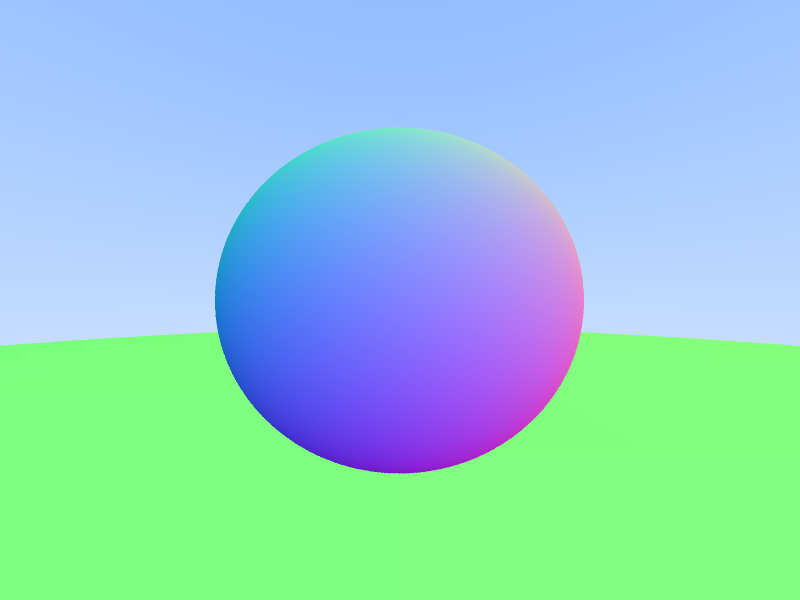
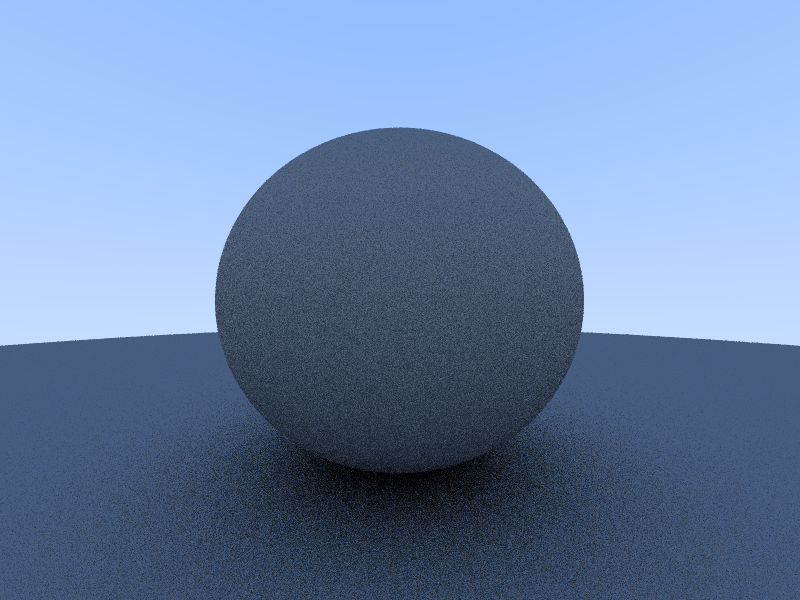
Diffuse reflections.

diff --git a/raytracer/src/main.rs b/raytracer/src/main.rs
@@ -36,15 +36,29 @@ fn hit_world(world: &Vec<Sphere>, r: &Ray, t_min: f64, t_max: f64) -> Option<Hit
     hit_record
 }
 
-fn ray_color(ray: &Ray, world: &Vec<Sphere>) -> Srgb {
+fn ray_color(ray: &Ray, world: &Vec<Sphere>, depth: i32) -> Srgb {
+    if depth <= 0 {
+        return Srgb::new(0.0, 0.0, 0.0);
+    }
     let hit = hit_world(world, ray, 0.001, std::f64::MAX);
     match hit {
         Some(hit_record) => {
-            let n = hit_record.normal;
+            // let n = hit_record.normal;
+            // return Srgb::new(
+            //     0.5 * n.x() as f32 + 0.5,
+            //     0.5 * n.y() as f32 + 0.5,
+            //     0.5 * n.z() as f32 + 0.5,
+            // );
+            let target = hit_record.point + hit_record.normal + Point3D::random_in_unit_sphere();
+            let target_color = ray_color(
+                &Ray::new(hit_record.point, target - hit_record.point),
+                world,
+                depth - 1,
+            );
             return Srgb::new(
-                0.5 * n.x() as f32 + 0.5,
-                0.5 * n.y() as f32 + 0.5,
-                0.5 * n.z() as f32 + 0.5,
+                0.5 * target_color.red,
+                0.5 * target_color.green,
+                0.5 * target_color.blue,
             );
         }
         None => {
@@ -64,7 +78,7 @@ fn test_ray_color() {
     let q = Point3D::new(1.0, 0.0, 0.0);
     let r = Ray::new(p, q);
     let w = Vec::new();
-    assert_eq!(ray_color(&r, &w), Srgb::new(0.75, 0.85, 1.0));
+    assert_eq!(ray_color(&r, &w, 2), Srgb::new(0.75, 0.85, 1.0));
 }
 
 fn render(pixels: &mut [u8], bounds: (usize, usize)) {
@@ -93,7 +107,7 @@ fn render(pixels: &mut [u8], bounds: (usize, usize)) {
                 let u = (x as f64 + rng.gen::<f64>()) / (bounds.0 as f64 - 1.0);
                 let v = (bounds.1 as f64 - (y as f64 + rng.gen::<f64>())) / (bounds.1 as f64 - 1.0);
                 let r = camera.get_ray(u, v);
-                let c = ray_color(&r, &world);
+                let c = ray_color(&r, &world, 50);
                 pixel_colors[0] += c.red;
                 pixel_colors[1] += c.green;
                 pixel_colors[2] += c.blue;

diff --git a/raytracer/src/lib.rs b/raytracer/src/lib.rs
@@ -1,3 +1,4 @@
+use rand::Rng;
 use std::cmp::PartialEq;
 use std::f64;
 use std::ops::{Add, Div, Mul, Neg, Sub};
@@ -15,6 +16,24 @@ pub struct Point3D {
 impl Point3D {
     pub fn new(x: f64, y: f64, z: f64) -> Point3D {
         Point3D { x, y, z }
+    }
+
+    pub fn random(min: f64, max: f64) -> Point3D {
+        let mut rng = rand::thread_rng();
+        Point3D::new(
+            rng.gen_range(min..max),
+            rng.gen_range(min..max),
+            rng.gen_range(min..max),
+        )
+    }
+
+    pub fn random_in_unit_sphere() -> Point3D {
+        loop {
+            let p = Point3D::random(-1.0, 1.0);
+            if p.length_squared() < 1.0 {
+                return p;
+            }
+        }
     }
 
     pub fn x(&self) -> f64 {
@@ -309,6 +328,14 @@ fn test_dot() {
 fn test_length_squared() {
     let p = Point3D::new(0.1, 0.2, 0.3);
     assert_approx_eq!(p.length_squared(), 0.14);
+}
+
+#[test]
+fn test_random() {
+    let p = Point3D::random(-1.0, 1.0);
+    assert!(p.x() >= -1.0 && p.x() <= 1.0);
+    assert!(p.y() >= -1.0 && p.y() <= 1.0);
+    assert!(p.z() >= -1.0 && p.z() <= 1.0);
 }
 
 #[test]
